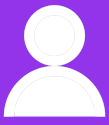
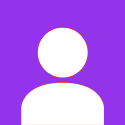
Add trending styling and final changes

diff --git a/index.html b/index.html
@@ -163,25 +163,33 @@
 				<div id="trending">
 					<h2 class="title">Trending</h2>
 					<div id="trending-profiles">
-						<img src="" alt="dog" class="pfp-small">
 						<div class="trending-profile">
-							<p class="handle">@tegan</p>
-							<p class="handle-proj">World Peace Builder</p>
+							<img src="./assets/generic-user.png" alt="generic user" class="pfp-small">
+							<div>
+								<h4 class="handle">@tegan</h4>
+								<p class="handle-proj">World Peace Builder</p>
+							</div>
 						</div>
-						<img src="" alt="cat" class="pfp-small">
 						<div class="trending-profile">
-							<p class="handle">@morgan</p>
-							<p class="handle-proj">World Peace Builder</p>
+							<img src="./assets/generic-user.png" alt="generic user" class="pfp-small">
+							<div>
+								<h4 class="handle">@morgan</h4>
+								<p class="handle-proj">Super Cool Project</p>
+							</div>
 						</div>
-						<img src="" alt="spiderman" class="pfp-small">
 						<div class="trending-profile">
-							<p class="handle">@kendall</p>
-							<p class="handle-proj">World Peace Builder</p>
+							<img src="./assets/generic-user.png" alt="generic user" class="pfp-small">
+							<div>
+								<h4 class="handle">@kendall</h4>
+								<p class="handle-proj">Life Changing App</p>
+							</div>
 						</div>
-						<img src="" alt="penguin" class="pfp-small">
 						<div class="trending-profile">
-							<p class="handle">@alex</p>
-							<p class="handle-proj">World Peace Builder</p>
+							<img src="./assets/generic-user.png" alt="generic user" class="pfp-small">
+							<div>
+								<h4 class="handle">@alex</h4>
+								<p class="handle-proj">No Traffic Maker</p>
+							</div>
 						</div>
 					</div>
 				</div>

diff --git a/styles.css b/styles.css
@@ -8,6 +8,11 @@ h2 {
 	margin-bottom: 8px;
 }
 
+h4,
+.handle-proj {
+	margin: 0px;
+}
+
 #content,
 #header,
 #side-btns,
@@ -41,9 +46,9 @@ h2 {
 	grid-column: 2 / 3;
 	grid-row: 2 / 3;
 	grid-template-columns: 3fr 1fr;
-	grid-template-rows: 1fr 1fr;
+	grid-template-rows: min(1fr, 1fr) 1fr;
 	padding: 35px 25px;
-	gap: 32px;
+	gap: 24px 32px;
 }
 
 #search-bar {
@@ -114,7 +119,6 @@ h2 {
 #projects {
 	grid-column: 1 / 2;
 	grid-row: 1 / 3;
-	/* padding: 16px; */
 }
 
 #announcements {
@@ -172,7 +176,6 @@ h2 {
 }
 
 #dash-txt {
-	/* display: inline; */
 	font-size: 32px;
 	color: white;
 }
@@ -202,6 +205,10 @@ h2 {
 .proj-btn {
 	border: none;
 	border-radius: 50%;
+}
+
+.announcement-txt {
+	font-size: 14px;
 }
 
 .icon,
@@ -244,6 +251,14 @@ h2 {
 	align-items: center;
 	gap: 16px;
 	margin-bottom: 16px;
+}
+
+.trending-profile {
+	display: grid;
+	grid-template-columns: auto 1fr;
+	gap: 16px;
+	align-items: center;
+	padding: 10px;
 }
 
 input {
